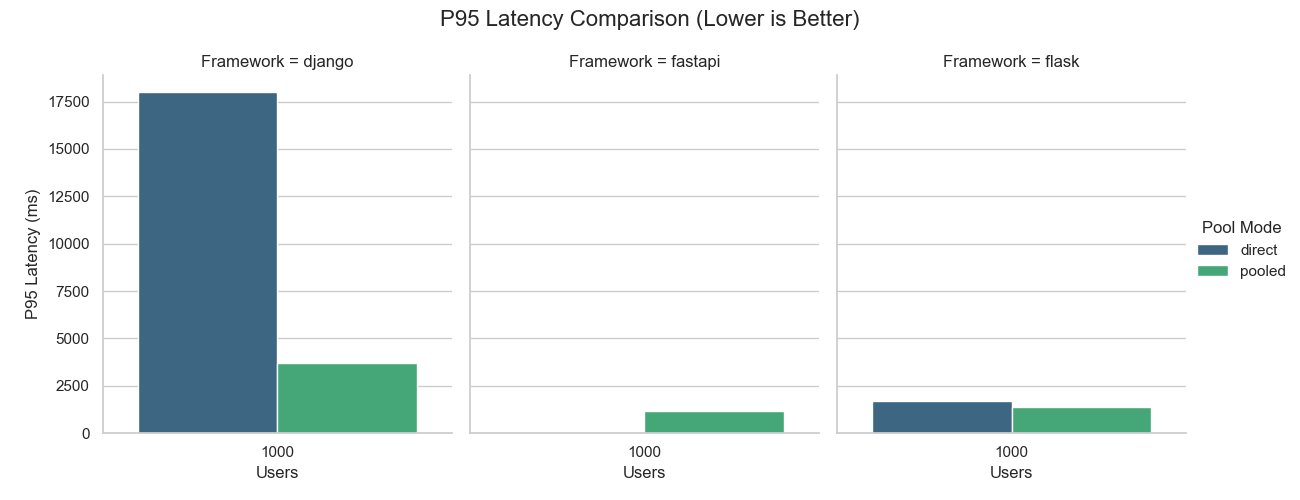
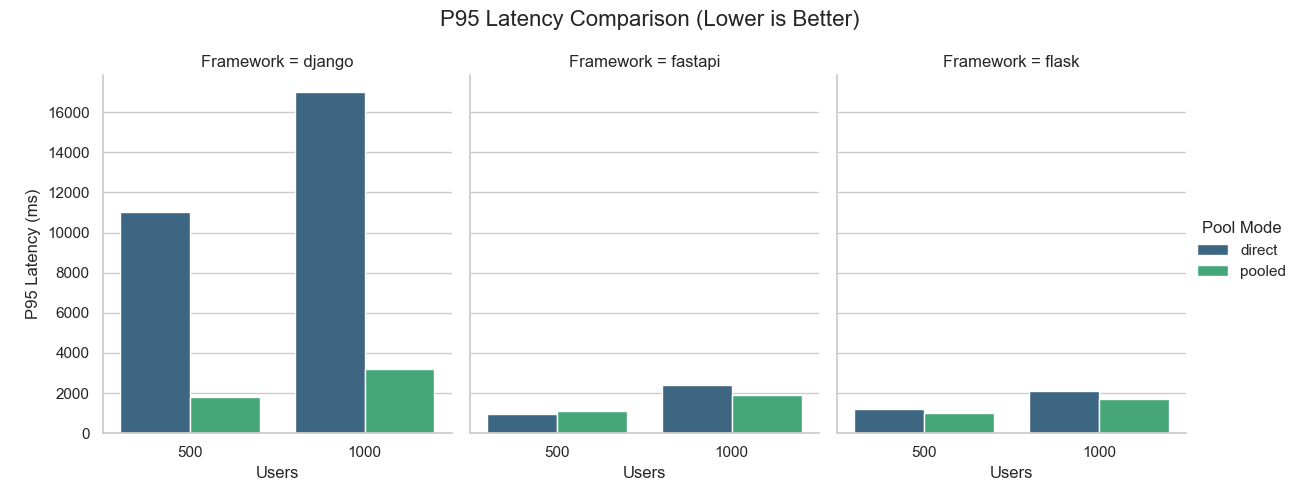
Feature: 결과 항목 더 추가

diff --git a/run_benchmark.py b/run_benchmark.py
@@ -1,13 +1,16 @@
 import subprocess
 import time
 import os
+import threading
+import json
+import statistics
 import pandas as pd
 
 
 # Configuration
 FRAMEWORKS = ["fastapi", "flask", "django"]
 POOL_MODES = ["direct", "pooled"]
-USER_COUNTS = [1000]  # Concurrency levels
+USER_COUNTS = [500, 1000]  # Concurrency levels
 SPAWN_RATE = 50  # Users per second
 RUN_TIME = "60s"  # Test duration per scenario, e.g., "1m" or "60s"
 RESULTS_DIR = "results"
@@ -28,8 +31,6 @@ def cleanup():
 def wait_for_service(service_name, port, timeout=60):
     """
     Rudimentary wait for service.
-    In a real scenario, we might retry curling the health check endpoint.
-    For now, we just sleep a bit or use `docker-compose exec` to check.
     """
     print(f"Waiting for {service_name} to stabilize...")
     time.sleep(30)  # Increased wait for DB init
@@ -42,24 +43,71 @@ def ensure_db_ready():
     wait_for_service("postgres", 5432)
 
     # Check if we need to seed
-    # We can check by querying the users count
     try:
         check_cmd = "docker-compose exec -T postgres psql -U postgres -d benchmark_db -c 'SELECT count(*) FROM users'"
         output = subprocess.check_output(check_cmd, shell=True).decode()
-        if "0" in output.splitlines()[2].strip():  # Rudimentary parsing
+        if "0" in output.splitlines()[2].strip():
             raise Exception("Empty Table")
         print("Data exists, skipping seed.")
     except Exception:
         print("Seeding database...")
-        # Run seed.py locally using venv python
-        # Ensure postgres port 5432 is accessible (it is mapped in docker-compose)
         run_command("./venv/bin/python database/seed.py")
+
+
+def monitor_resources(stop_event, containers, results):
+    """
+    Monitors Docker container resources in a background thread.
+    stores result in `results` dict.
+    """
+    stats_data = {c: {"cpu": [], "mem": []} for c in containers}
+
+    while not stop_event.is_set():
+        try:
+            # Get stats for all running containers
+            cmd = [
+                "docker",
+                "stats",
+                "--no-stream",
+                "--format",
+                "{{.Name}},{{.CPUPerc}},{{.MemPerc}}",
+            ]
+            output = subprocess.check_output(cmd).decode().strip().splitlines()
+
+            for line in output:
+                try:
+                    name, cpu_str, mem_str = line.split(",")
+                    if name in containers:
+                        # Parse CSS percentage (10.5%) -> 10.5
+                        cpu_val = float(cpu_str.strip("%"))
+                        mem_val = float(mem_str.strip("%"))
+                        stats_data[name]["cpu"].append(cpu_val)
+                        stats_data[name]["mem"].append(mem_val)
+                except ValueError:
+                    continue  # Skip if parsing fails
+
+        except Exception as e:
+            print(f"Monitor Warning: {e}")
+
+        time.sleep(1)
+
+    # Calculate averages
+    for c in containers:
+        cpus = stats_data[c]["cpu"]
+        mems = stats_data[c]["mem"]
+        if cpus:
+            results[c] = {
+                "avg_cpu": statistics.mean(cpus),
+                "avg_mem": statistics.mean(mems),
+            }
+        else:
+            results[c] = {"avg_cpu": 0, "avg_mem": 0}
 
 
 def run_scenario(framework, pool_mode, users):
     """Runs a single benchmark scenario."""
     filename = f"{framework}_{pool_mode}_{users}u"
     result_file = os.path.join(RESULTS_DIR, f"{filename}_stats.csv")
+    resource_file = os.path.join(RESULTS_DIR, f"{filename}_resources.json")
 
     if os.path.exists(result_file):
         print(f"Skipping {filename}: Results already exist.")
@@ -71,12 +119,6 @@ def run_scenario(framework, pool_mode, users):
 
     try:
         # 1. Start Infrastructure
-        # Always restart database/pgbouncer to ensure clean state?
-        # Or keep DB running? Keeping DB running is faster, but might carry over caching effects.
-        # For this benchmark, let's keep DB running but restart pgbouncer if needed.
-        # Actually, restart app to clear app-level pools.
-
-        # Cleanup override if it exists from a previous crash
         if os.path.exists("docker-compose.override.yml"):
             os.remove("docker-compose.override.yml")
 
@@ -84,7 +126,6 @@ def run_scenario(framework, pool_mode, users):
         run_command(f"docker-compose stop {service_name}")
         run_command(f"docker-compose rm -f {service_name}")
 
-        # Strategy: generate `docker-compose.override.yml` for the current run.
         with open("docker-compose.override.yml", "w") as f:
             val = "1" if pool_mode == "pooled" else "0"
             f.write(f"""
@@ -99,6 +140,8 @@ services:
             run_command("docker-compose up -d pgbouncer", cwd=None)
 
         run_command(f"docker-compose up -d {service_name}")
+
+        # Wait for service to be ready
         wait_for_service(
             service_name,
             8000
@@ -106,8 +149,18 @@ services:
             else (8001 if framework == "django" else 8002),
         )
 
-        # 2. Run Locust
-        # Host is localhost:port mapped
+        # 2. Start Resource Monitor
+        stop_event = threading.Event()
+        resource_results = {}
+        target_containers = ["postgres", service_name]
+
+        monitor_thread = threading.Thread(
+            target=monitor_resources,
+            args=(stop_event, target_containers, resource_results),
+        )
+        monitor_thread.start()
+
+        # 3. Run Locust
         port = (
             8000 if framework == "fastapi" else 8001 if framework == "django" else 8002
         )
@@ -128,16 +181,23 @@ services:
             host_url,
             "--csv",
             f"{RESULTS_DIR}/{filename}",
-            "--only-summary",  # Less log spam
+            "--only-summary",
         ]
 
         print(f"Starting Locust: {' '.join(cmd)}")
         subprocess.check_call(cmd)
 
+        # 4. Stop Monitor and Save
+        stop_event.set()
+        monitor_thread.join()
+
+        with open(resource_file, "w") as f:
+            json.dump(resource_results, f)
+
     except Exception as e:
         print(f"FAILED Scenario {filename}: {e}")
+        stop_event.set()  # ensure thread stops
     finally:
-        # Cleanup override
         if os.path.exists("docker-compose.override.yml"):
             os.remove("docker-compose.override.yml")
 
@@ -147,11 +207,8 @@ def generate_summary():
     print("Generating Summary Report...")
     summary_data = []
 
-    # Iterate over files in RESULTS_DIR
     for filename in os.listdir(RESULTS_DIR):
         if filename.endswith("_stats.csv"):
-            # Filename format: {framework}_{pool_mode}_{users}u_stats.csv
-            # We strip _stats.csv
             base_name = filename.replace("_stats.csv", "")
             parts = base_name.split("_")
             if len(parts) != 3:
@@ -161,12 +218,25 @@ def generate_summary():
             pool_mode = parts[1]
             users = parts[2].replace("u", "")
 
-            # Read CSV
+            # Read Stats
             try:
                 df = pd.read_csv(os.path.join(RESULTS_DIR, filename))
-                # Get Aggregated stats (usually last row or specific row 'Aggregated')
-                # Locust stats csv has 'Name' column. We want 'Aggregated'.
                 agg = df[df["Name"] == "Aggregated"].iloc[0]
+
+                # Read Resources
+                res_path = os.path.join(RESULTS_DIR, f"{base_name}_resources.json")
+                db_cpu = db_mem = app_cpu = app_mem = 0
+                if os.path.exists(res_path):
+                    with open(res_path, "r") as f:
+                        res = json.load(f)
+                        if "postgres" in res:
+                            db_cpu = round(res["postgres"]["avg_cpu"], 1)
+                            db_mem = round(res["postgres"]["avg_mem"], 1)
+
+                        app_container = f"{framework}-app"
+                        if app_container in res:
+                            app_cpu = round(res[app_container]["avg_cpu"], 1)
+                            app_mem = round(res[app_container]["avg_mem"], 1)
 
                 summary_data.append(
                     {
@@ -177,6 +247,10 @@ def generate_summary():
                         "P95 Latency (ms)": agg["95%"],
                         "P99 Latency (ms)": agg["99%"],
                         "Failures/s": agg["Failures/s"],
+                        "DB CPU (%)": db_cpu,
+                        "DB Mem (%)": db_mem,
+                        "App CPU (%)": app_cpu,
+                        "App Mem (%)": app_mem,
                     }
                 )
             except Exception as e:
@@ -189,12 +263,7 @@ def generate_summary():
         # Save to CSV
         summary_df.to_csv("summary_report.csv", index=False)
 
-        # Save to Markdown
-        with open("README.md", "a") as f:
-            f.write("\n## Benchmark Results\n")
-            f.write(summary_df.to_markdown(index=False))
-
-        print("Summary Report Saved to summary_report.csv and appended to README.md")
+        print("Summary Report Saved to summary_report.csv")
 
 
 def main():
@@ -210,7 +279,6 @@ def main():
             for pool_mode in POOL_MODES:
                 for users in USER_COUNTS:
                     run_scenario(framework, pool_mode, users)
-                    # Cool down
                     time.sleep(5)
 
         generate_summary()

diff --git a/README.md b/README.md
@@ -140,11 +140,17 @@ python run_benchmark.py
 ![P95 Latency Comparison](results/plots/p95_latency_comparison.png)
 
 ### Data Table
-| Framework | Pool Mode | Users | RPS | P95 Latency (ms) | Failures/s |
-|-----------|-----------|-------|-----|------------------|------------|
-| django | direct | 1000 | 61 | 18000 | 0.0 |
-| django | pooled | 1000 | 377 | 3700 | 0.0 |
-| fastapi | direct | 1000 | - | - | - |
-| fastapi | pooled | 1000 | 1134 | 1200 | 0.0 |
-| flask | direct | 1000 | 706 | 1700 | 0.0 |
-| flask | pooled | 1000 | 814 | 1400 | 0.0 |
+| Framework | Pool Mode | Users | RPS | P95 Latency (ms) | DB CPU (%) | App CPU (%) |
+|-----------|-----------|-------|-----|------------------|------------|-------------|
+| django | direct | 500 | 57 | 11000 | 49.2 | 38.8 |
+| django | direct | 1000 | 64 | 17000 | 49.7 | 39.4 |
+| **django** | **pooled** | **500** | **399** | **1800** | **13.8** | **100.5** |
+| **django** | **pooled** | **1000** | **395** | **3200** | **13.2** | **101.0** |
+| fastapi | direct | 500 | 843 | 980 | 31.0 | 98.4 |
+| fastapi | direct | 1000 | 611 | 2400 | 27.8 | 97.2 |
+| fastapi | pooled | 500 | 720 | 1100 | 25.7 | 94.7 |
+| fastapi | pooled | 1000 | 805 | 1900 | 25.2 | 95.1 |
+| flask | direct | 500 | 647 | 1200 | 28.3 | 101.5 |
+| flask | direct | 1000 | 587 | 2100 | 25.8 | 101.2 |
+| flask | pooled | 500 | 745 | 1000 | 28.8 | 101.3 |
+| flask | pooled | 1000 | 730 | 1700 | 26.8 | 101.2 |
